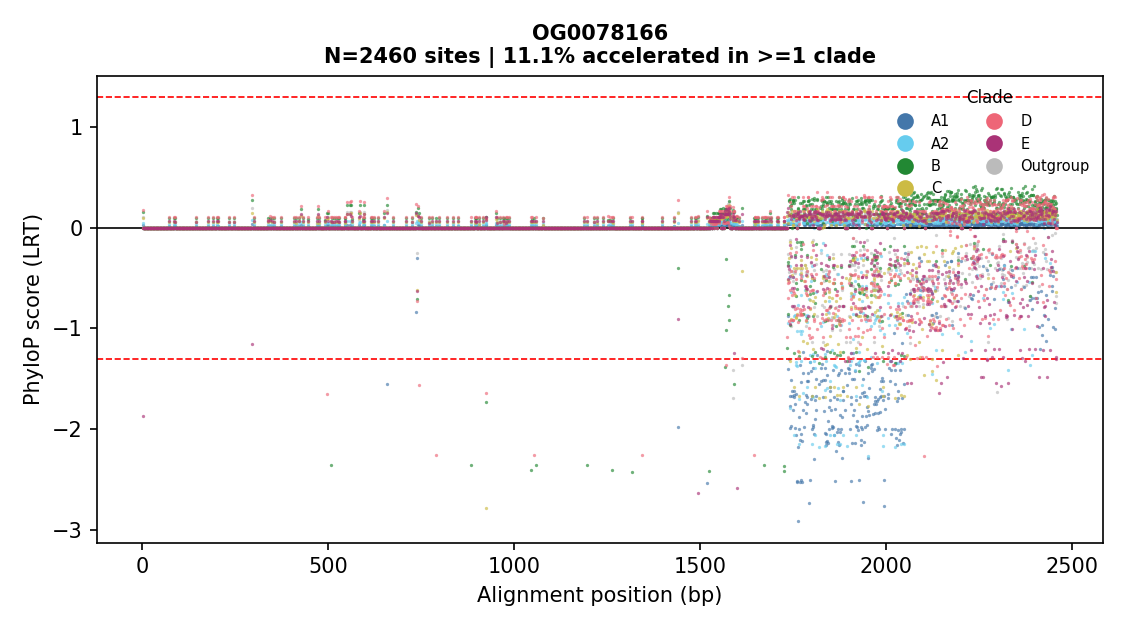
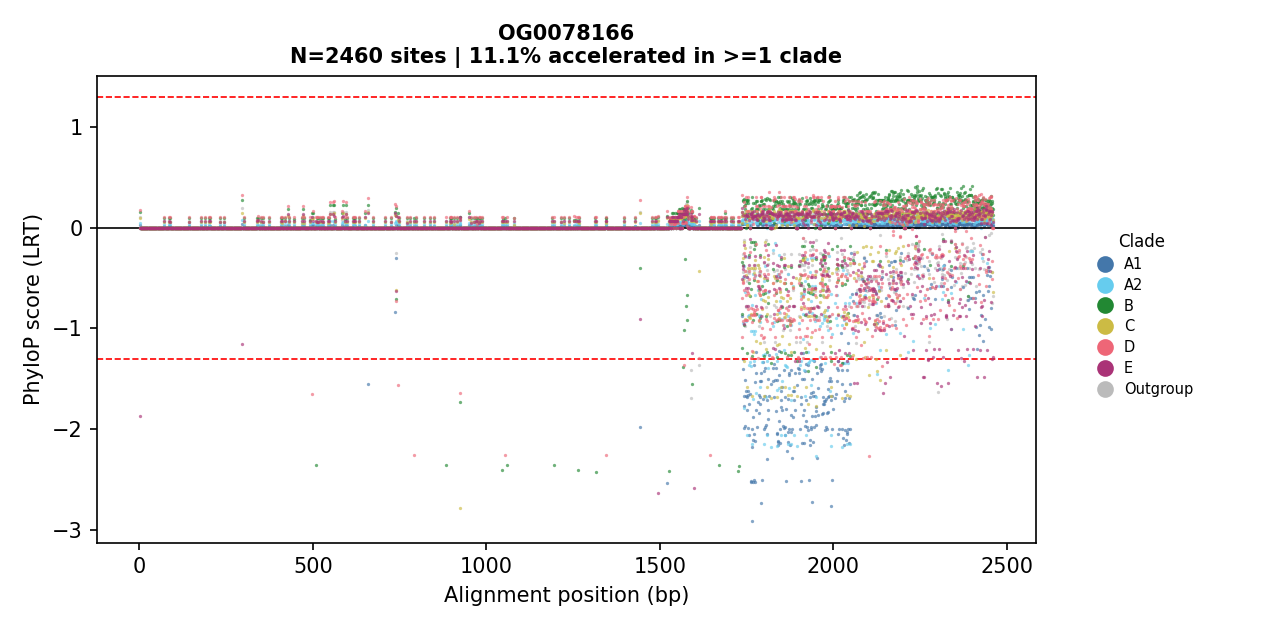
Move legend outside the axes in individual intron profiles
It was placed inside the plot (upper right) and overlapped the
conservation cluster near score=0.

diff --git a/02_intron_phyloP/plot_individual_intron_profiles.py b/02_intron_phyloP/plot_individual_intron_profiles.py
@@ -63,7 +63,10 @@ def load_scores(detail_dir: str, og: str) -> pd.DataFrame:
 
 def plot_one(detail_dir: str, og: str, out_dir: Path) -> None:
     df = load_scores(detail_dir, og)
-    fig, ax = plt.subplots(figsize=(7.5, 4.2))
+    # Extra width reserved on the right for the legend (fig.legend below),
+    # so it sits beside the plot instead of on top of the data — 'upper
+    # right' inside the axes collided with the conservation cluster near 0.
+    fig, ax = plt.subplots(figsize=(8.5, 4.2))
     for zorder, clade in enumerate(DRAW_ORDER):
         sub = df[df['clade'] == clade].sort_values('coord')
         ax.scatter(sub['coord'], sub['score'], s=POINT_SIZE, alpha=0.65,
@@ -84,10 +87,11 @@ def plot_one(detail_dir: str, og: str, out_dir: Path) -> None:
                markersize=LEGEND_MARKERSIZE)
         for c in LEGEND_ORDER
     ]
-    ax.legend(legend_handles, LEGEND_ORDER, title='Clade', fontsize=7,
-              title_fontsize=8, frameon=False, loc='upper right', ncol=2)
+    fig.tight_layout(rect=[0, 0, 0.83, 1])
+    fig.legend(legend_handles, LEGEND_ORDER, title='Clade', loc='center left',
+               bbox_to_anchor=(0.845, 0.5), fontsize=7, title_fontsize=8,
+               frameon=False, handletextpad=0.3, labelspacing=0.4)
 
-    plt.tight_layout()
     fig.savefig(out_dir / f'{og}_profile_LRT.png', dpi=150)
     plt.close(fig)
 
